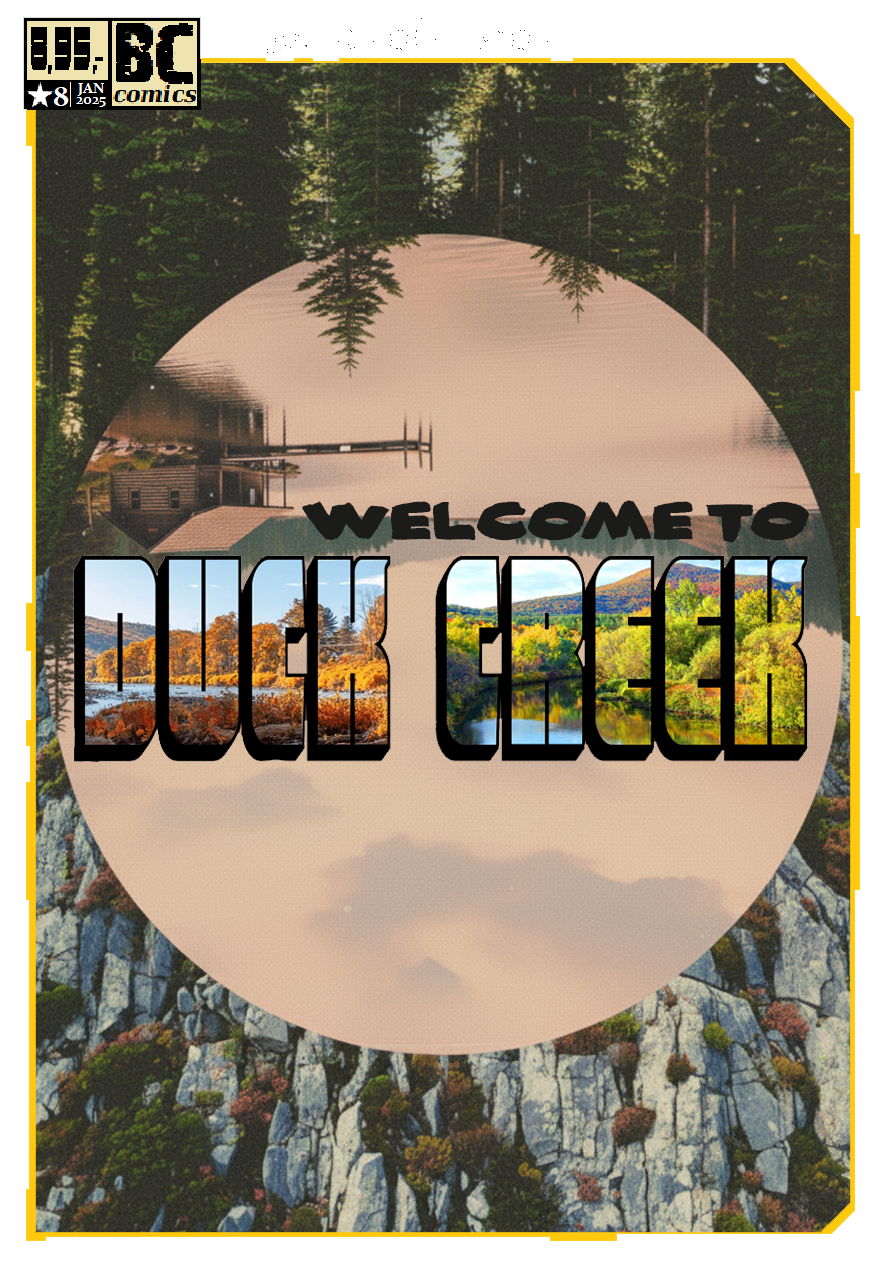
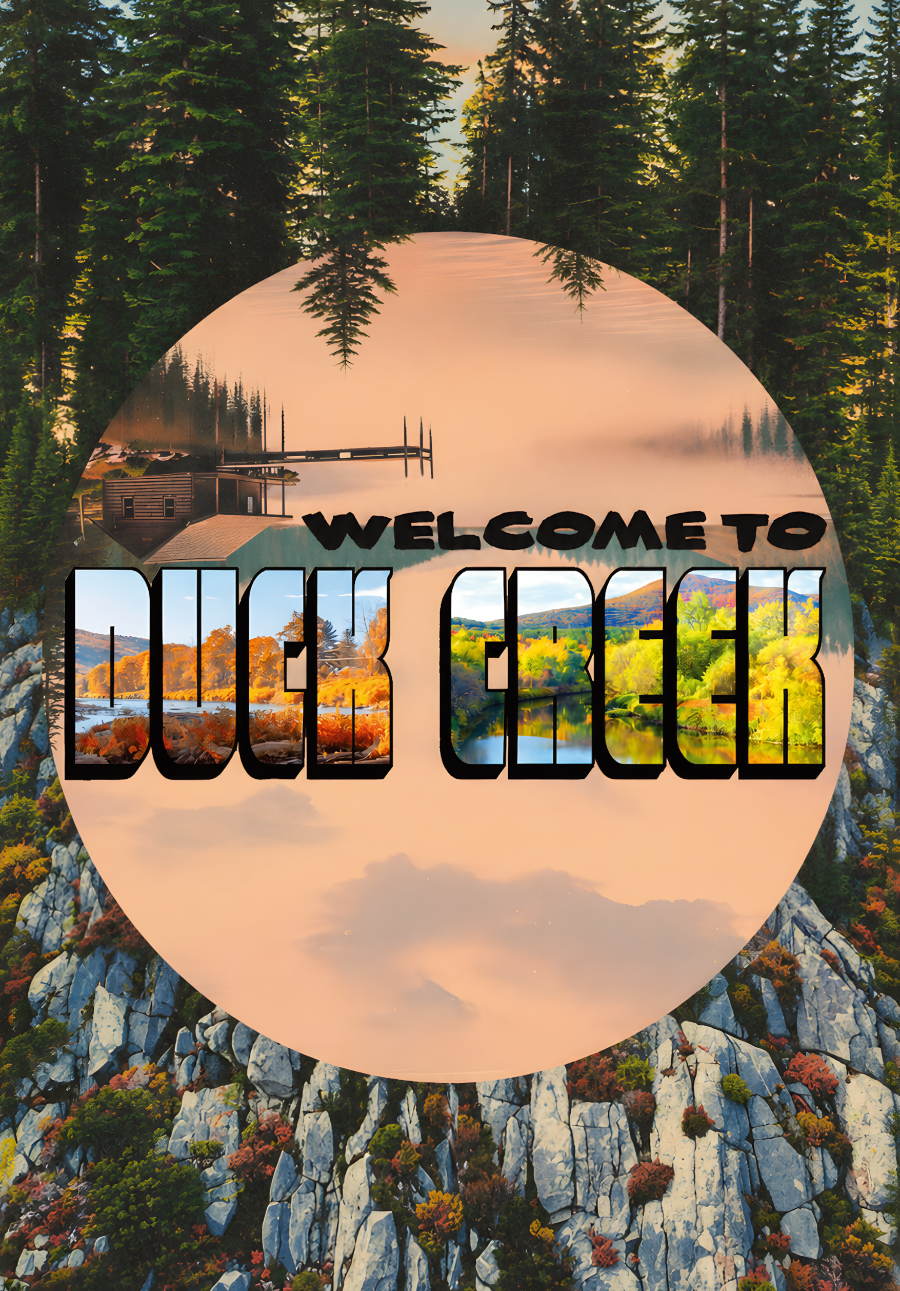
Added rulebooks Added additional adventures Moved quickstart guide to rulebook section

diff --git a/themes/qoc/layouts/_partials/adventure-card.html b/themes/qoc/layouts/_partials/adventure-card.html
@@ -1,26 +1,26 @@
 <article class="col-12 col-md-6 col-lg-4 pb-4">
-  <div class="card">
+  <div class="card h-100">
     {{- if .Params.image_teaser }}
       {{- $image := resources.Get .Params.image_teaser }}
-      {{- $image := $image.Fill (printf "286x180 %s" .Params.image_teaser_position) }}
+      {{- $image := $image.Fill (printf "407x256 %s" .Params.image_teaser_position) }}
       <img class="card-img-top" src="{{ $image.RelPermalink }}" alt="Card image cap">
     {{- else if .Params.image }}
       {{- $image := resources.Get .Params.image }}
-      {{- $image := $image.Fill (printf "286x180 %s" .Params.image_teaser_position) }}
+      {{- $image := $image.Fill (printf "407x256 %s" .Params.image_teaser_position) }}
       <img class="card-img-top" src="{{ $image.RelPermalink }}" alt="Card image cap">
     {{- end }}
 
-    <div class="card-body">
+    <div class="card-body d-flex flex-column">
       <h3 class="card-title">{{ .Title }}</h3>
       <p class="card-text">
         {{ .Params.description }}
       </p>
-      <p class="card-text">
+      <p class="card-text mt-auto">
         <b>Genre:</b> {{ .Params.genre }}<br>
         <b>Format:</b> {{ .Params.format }} ({{ .Params.duration }})<br>
         <b>{{ if gt (len .Params.authors) 1 }}Autoren{{ else }}Autor{{ end }}:</b> {{ range $k, $v := .Params.authors }}{{ if $k }}, {{ end }}{{ $v.name }}{{ end }}
       </p>
-      <a href="{{.Permalink}}" class="btn btn-sm btn-primary">Weitere Informationen</a>
+      <a href="{{.Permalink}}" class="btn btn-sm btn-primary ">Weitere Informationen</a>
     </div>
   </div>
 </article>

diff --git a/themes/qoc/layouts/_partials/book-card.html b/themes/qoc/layouts/_partials/book-card.html
@@ -1,0 +1,21 @@
+<article class="col-12 col-md-6 col-lg-4 pb-4">
+  <div class="card h-100">
+    {{- if .Params.image_teaser }}
+      {{- $image := resources.Get .Params.image_teaser }}
+      {{- $image := $image.Fill (printf "407x256 %s" .Params.image_teaser_position) }}
+      <img class="card-img-top" src="{{ $image.RelPermalink }}" alt="Card image cap">
+    {{- else if .Params.image }}
+      {{- $image := resources.Get .Params.image }}
+      {{- $image := $image.Fill (printf "407x256 %s" .Params.image_teaser_position) }}
+      <img class="card-img-top" src="{{ $image.RelPermalink }}" alt="Card image cap">
+    {{- end }}
+
+    <div class="card-body d-flex flex-column">
+      <h3 class="card-title">{{ .Title }}</h3>
+      <p class="card-text">
+        {{ .Params.description }}
+      </p>
+      <a href="{{.Permalink}}" class="btn btn-sm btn-primary mt-auto">Weitere Informationen</a>
+    </div>
+  </div>
+</article>

diff --git a/themes/qoc/layouts/books/single.html b/themes/qoc/layouts/books/single.html
@@ -1,0 +1,34 @@
+{{- define "main" }}
+{{- with .Params.image }}
+{{- $image := resources.Get . }}
+{{- $image := $image.Resize "480x" }}
+<img
+  src="{{ $image.RelPermalink }}"
+  alt="Card image cap"
+  width="{{ $image.Width }}"
+  class="pb-3 pb-lg-0 ps-lg-3 float-lg-end img-fluid"
+>
+{{- end }}
+
+<h1>{{ .Title }}</h1>
+{{- if .Params.book }}
+<p>{{ .Params.book }}</p>
+{{- end }}
+
+{{ .Content }}
+
+<div class="mt-3 d-flex gap-2 align-items-start">
+
+
+  {{- if .Params.link }}
+    {{- if .Params.linkText }}
+      <a href="{{ .Params.link }}" class="btn btn-primary">{{ .Params.linkText }}</a>
+    {{- else }}
+      <a href="{{ .Params.link }}" class="btn btn-primary">Kaufen</a>
+    {{- end }}
+  {{- else }}
+    <button disabled href="{{ .Params.link }}" class="btn btn-primary">Bald verfügbar</button>
+  {{- end }}
+
+</div>
+{{- end }}

diff --git a/themes/qoc/layouts/adventures/single.html b/themes/qoc/layouts/adventures/single.html
@@ -11,6 +11,9 @@
 {{- end }}
 
 <h1>{{ .Title }}</h1>
+{{- if .Params.book }}
+<p>{{ .Params.book }}</p>
+{{- end }}
 
 <p>
   <b>Genre:</b> {{ .Params.genre }}<br>
@@ -33,7 +36,11 @@
     <a href="{{ .Params.link }}" class="btn btn-primary">Kaufen</a>
     {{- end }}
   {{- else }}
+    {{- if eq .Params.free true }}
     <button disabled href="{{ .Params.link }}" class="btn btn-primary">Download bald verfügbar</button>
+    {{- else }}
+    <button disabled href="{{ .Params.link }}" class="btn btn-primary">Bald verfügbar</button>
+    {{- end }}
   {{- end }}
 
   {{- range .Params.authors }}

diff --git a/themes/qoc/layouts/adventures/list.html b/themes/qoc/layouts/adventures/list.html
@@ -1,6 +1,13 @@
 {{- define "main" }}
 <h1>{{ .Title }}</h1>
 
+<h2>Unsere Abenteuer-Bücher</h2>
+<div class="row">
+{{- range where .Data.Pages ".Params.free" false }}
+   {{ partial "adventure-card.html" . }}
+{{ end }}
+</div>
+
 <h2>Unsere kostenlosen Pen & Paper Abenteuer zum herunterladen</h2>
 <div class="row">
 {{- range where .Data.Pages ".Params.free" true }}

diff --git a/themes/qoc/layouts/_partials/download-card.html b/themes/qoc/layouts/_partials/download-card.html
@@ -5,7 +5,7 @@
       <div class="card-text">
         {{ .Content }}
       </div>
-      <div class="d-flex flex-column h-100 justify-content-end">
+      <div class="d-flex flex-column mt-auto">
         {{- if .Params.link }}
           <a href="{{ .Params.link }}" class="btn btn-sm btn-primary">{{ .Params.linktext }}</a>
         {{- else }}

diff --git a/themes/qoc/layouts/books/list.html b/themes/qoc/layouts/books/list.html
@@ -1,0 +1,11 @@
+{{- define "main" }}
+<h1>{{ .Title }}</h1>
+
+<div class="row">
+{{- $pages := where .Data.Pages ".Params.free" false }}
+{{- range $pages.ByParam "order" }}
+   {{ partial "book-card.html" . }}
+{{ end }}
+</div>
+
+{{- end }}

diff --git a/content/adventures/_index.html b/content/adventures/_index.html
@@ -3,5 +3,5 @@ title: "Abenteuer"
 date: 2025-09-10T16:09:36+02:00
 draft: false
 menu: main
-weight: 25
+weight: 20
 ---

diff --git a/content/books/_index.html b/content/books/_index.html
@@ -1,0 +1,7 @@
+---
+title: "Regelbücher"
+date: 2025-09-10T16:09:36+02:00
+draft: false
+menu: main
+weight: 25
+---

diff --git a/content/adventures/adventure-league-1.md b/content/adventures/adventure-league-1.md
@@ -1,0 +1,23 @@
+---
+title: "Adventure League, Teil 1"
+image_teaser: "images/adventures/adventure-league-1.png"
+image_teaser_position: "top"
+image: "images/adventures/adventure-league-1-cover.png"
+description: "Auf der Suche nach der sagenumwobenen Stadt Ember verschwindet ein Archäologe im Dschungel. Folgt seiner Spur und findet heraus, was hinter der Legende vom Krokodilauge steckt."
+genre: "Pulp, Mystery"
+format: "One-Shot"
+duration: "5-8 Stunden"
+book: "41 Seiten, A5 Softcover Buch"
+authors:
+  - name: "Patrick Morgenthaler"
+    url: "mailto:pmorgenthaler@web.de"
+draft: false
+free: false
+---
+## Das Königreich des Krokodilauges
+
+Der berühmte Archäologe Dr. Tydarius Finkelstein ist irgendwo im Dschungel verschwunden. Seit Jahren ist er auf der Suche nach der geheimnisvollen Stadt Ember, von der er glaubt, das sie von Auserirdischen erbaut wurde und tief im Dschungel verborgen liegt, bewacht von Ureinwohnern und der Macht des Krokodilauges. Eine alte Legende besagt, dass das Krokodilauge der Schlüssel zu unendlichem Wissen sei.
+
+Ein Brief erreichte kürzlich einen alten Freund von Dr. T. Finkelstein, indem er ihn bat, eine Expedition zusammen zu stellen und ihn bei der Suche nach der geheimnisvollen Stadt zu unterstützen. Nicht gerade mit Freude begibt sich nun der Freund auf eine lange Reise voller Ungewissheit.
+
+Erstelle dir einen Abenteurer und hilf dabei die Geheimnisse um Ember aufzudecken, falls diese Stadt überhaupt existiert und es sich am Ende nicht schon wieder als eine heiße Spur entpuppt die im Sand verläuft.

diff --git a/content/adventures/daring-business-free.md b/content/adventures/daring-business-free.md
@@ -1,0 +1,24 @@
+---
+title: "Daring Business gratis PDF"
+image_teaser: "images/adventures/daring-business.png"
+image_teaser_position: "top"
+image: "images/adventures/daring-business-cover.png"
+description: "Ein ganz normaler Tag. Ein kurzer Stopp in der Bank, ein paar Erledigungen – doch dann fallen Schüsse."
+genre: "Action, Mystery, Sci-Fi"
+format: "Multi-Shot"
+duration: "6-10 Stunden"
+authors:
+  - name: "Patrick Morgenthaler"
+    url: "mailto:pmorgenthaler@web.de"
+    donate: "https://paypal.me/PatMor549"
+license: "CC BY-NC-ND 4.0"
+license_url: "https://creativecommons.org/licenses/by-nc-nd/4.0/"
+draft: false
+free: true
+link: "/downloads/qoc_daring_business_311025.pdf"
+---
+Ein ganz normaler Tag. Ein kurzer Stopp in der Bank, ein paar Erledigungen – doch dann fallen Schüsse.
+Was als Routine begann, endet in einem blutigen Überfall, einer Flucht und einem Netz aus Lügen, Gewalt und Verschwörungen.
+
+In Daring Business, dem ersten Abenteuerband der Quests of Cthula Lumpor-Reihe, geraten die Spieler mitten in ein explosives Szenario:
+Ein Banküberfall, korrupte Polizisten, mysteriöse Experimente der Firma PURE – und ein Meteor, der alles verändert.

diff --git a/content/adventures/welcome-to-duck-creek-free.md b/content/adventures/welcome-to-duck-creek-free.md
@@ -1,0 +1,25 @@
+---
+title: "Welcome to Duck Creek gratis PDF"
+image_teaser: "images/adventures/duck-creek.png"
+image_teaser_position: "center"
+image: "images/adventures/duck-creek-cover.png"
+description: "Ein herbstliches Mystery-Abenteuer in den Berkshire Mountains."
+genre: "Mystery, Horror"
+format: "Multi-Shot"
+duration: "6-10 Stunden"
+authors:
+  - name: "Johannes Zinnau"
+    url: "mailto:mail.johni@gmx.de"
+    donate: "https://ko-fi.com/johanneszinnau"
+license: "CC BY-NC-ND 4.0"
+license_url: "https://creativecommons.org/licenses/by-nc-nd/4.0/"
+draft: false
+free: true
+link: "/downloads/welcome_to_duck_creek.zip"
+---
+Es ist ein schöner Herbsttag im Jahre 1998. Ihr befindet euch im Familien-Van der Familie Phillips, dessen Sohn Ryker euch vom Flughafen in Albany, New York abgeholt hat.
+
+Ihr habt Ryker auf einem Musik-Festival kennengelernt und konntet jetzt endlich seiner Einladung folgen, ihn in den USA zu besuchen.
+
+Ihr freut euch schon auf ein paar ruhige Tage in der Hütte am See in den Berkshire Mountains, von der Ryker schon so oft geschwärmt hatte.
+
